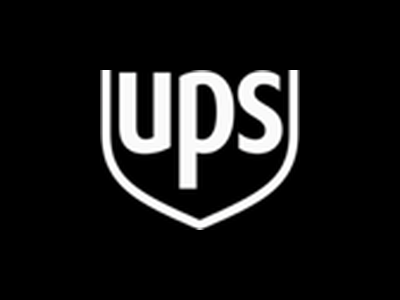
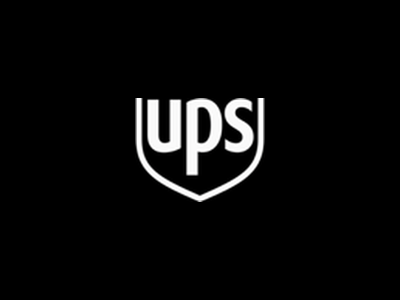
Mobile: fix centering, corners, SPECS scroll, all pending layout issues
- UPS logo: shrink to 130×104px (was 200×160, too large/cut off)
- Contents: remove "Adobe — Mobile Optimizations" row (now 3 projects)
- Comparison (slide 9): mobile now shows images stacked vertically instead of horizontal carousel
- Before slide (14): image bleeds edge-to-edge (negative margins, no horizontal padding)
- Key Findings (16): add 16px top space above KEY TAKEAWAYS on mobile
- Slides 17–20: reduce gap below headline from 20px → 8px; unify carousel to align-items:center
- SPECS slides (34/35): fix images cut off on mobile — keep inner grid scrollable (was incorrectly set to overflow:visible)
- Global mobile: remove border-radius from all slide images
- Global mobile: hide scrollbar on slides (fixes left/right centering asymmetry in DevTools)

Changed region(s): [[0.24, 0.21, 0.75, 0.78]]

diff --git a/index.html b/index.html
@@ -367,7 +367,7 @@
       .research-kt {
         position: static !important;
         width: auto !important;
-        padding: 0 !important;
+        padding: 16px 0 0 !important;
       }
       /* Checkout cover: 3D MacBook clips on portrait — hide it */
       .checkout-mac { display: none !important; }
@@ -434,8 +434,8 @@
       }
       /* Before checkout: more breathing room between step images */
       .img-grid-3 { gap: 32px !important; }
-      /* Specs: let outer slide scroll; remove inner scroll container */
-      .img-grid-2.scrollable { overflow: visible !important; flex: none !important; }
+      /* Specs: scrollable inner grid handles overflow */
+      .img-grid-2.scrollable { overflow-y: auto !important; flex: 1 !important; min-height: 0 !important; }
       /* Mobile designs: 2×2 grid */
       .mobile-2x2 { display: grid !important; grid-template-columns: 1fr 1fr !important; gap: 10px !important; }
       .mobile-2x2-desktop { display: none !important; }
@@ -445,10 +445,17 @@
       .brands-desktop { display: none !important; }
       .brands-mobile { display: grid !important; grid-template-columns: repeat(2, 1fr) !important; width: 100% !important; gap: 0 !important; }
       .brands-mobile img { width: 100% !important; height: auto !important; object-fit: contain !important; max-height: none !important; }
-      /* Comparison carousel: vertical centering, horizontal swipe, correct image sizing */
-      .comparison-mobile { touch-action: pan-x !important; flex: none !important; height: auto !important; margin-top: auto !important; margin-bottom: auto !important; align-items: flex-start !important; }
-      .comparison-mobile > div { max-width: 100% !important; }
+      /* Comparison: vertically stacked images */
+      .comparison-mobile { touch-action: pan-y !important; }
       .media-slide .comparison-mobile .contain-img { max-height: none !important; }
+      /* Remove rounded corners on mobile */
+      .slide img { border-radius: 0 !important; }
+      .img-grid-2 > div { border-radius: 0 !important; }
+      /* Bleed image for Before slide */
+      .before-img-container { margin: 0 -18px !important; }
+      /* Hide scrollbars on mobile slides (no layout shift) */
+      .slide::-webkit-scrollbar { display: none; }
+      .slide { scrollbar-width: none; }
 
     }
     @media (min-width: 601px) { .mobile-only-slide { display: none !important; } }
@@ -623,7 +630,6 @@
 
       <div style="padding:28px 0;border-bottom:1px solid var(--border);"><div class="h2">Apple — Apple Store App</div></div>
       <div style="padding:28px 0;border-bottom:1px solid var(--border);"><div class="h2">Adobe — Checkout Redesign</div></div>
-      <div style="padding:28px 0;border-bottom:1px solid var(--border);"><div class="h2">Adobe — Mobile Optimizations</div></div>
       <div style="padding:28px 0;"><div class="h2">Adobe — Internal Tool</div></div>
     </div>
   </div>
@@ -657,14 +663,10 @@
   <div class="comparison-desktop" style="flex:1; min-height:0; display:flex; align-items:center; justify-content:center; overflow-x:auto;">
     <img src="/portfolio/assets/images/apple-comparison.webp" alt="apple.com vs Apple Store app" class="contain-img" style="max-height:100%;width:auto;min-width:480px;display:block;border-radius:10px;box-shadow:0 8px 40px rgba(0,0,0,0.6);">
   </div>
-  <!-- Mobile: swipeable carousel — one side at a time -->
-  <div class="comparison-mobile" style="display:none; flex-direction:row; overflow-x:auto; overflow-y:hidden; -webkit-overflow-scrolling:touch; scroll-snap-type:x mandatory; flex:1; min-height:0; align-items:flex-start;">
-    <div style="min-width:100%; flex-shrink:0; scroll-snap-align:start;">
-      <img src="/portfolio/assets/images/apple-comparison-left.webp" alt="www.apple.com" class="contain-img" style="width:100%;height:auto;display:block;border-radius:10px;box-shadow:0 8px 40px rgba(0,0,0,0.6);">
-    </div>
-    <div style="min-width:100%; flex-shrink:0; scroll-snap-align:start;">
-      <img src="/portfolio/assets/images/apple-comparison-right.webp" alt="Apple Store app" class="contain-img" style="width:100%;height:auto;display:block;border-radius:10px;box-shadow:0 8px 40px rgba(0,0,0,0.6);">
-    </div>
+  <!-- Mobile: vertically stacked images -->
+  <div class="comparison-mobile" style="display:none; flex-direction:column; overflow-y:auto; overflow-x:hidden; flex:1; min-height:0; gap:16px;">
+    <img src="/portfolio/assets/images/apple-comparison-left.webp" alt="www.apple.com" class="contain-img" style="width:100%;height:auto;display:block;">
+    <img src="/portfolio/assets/images/apple-comparison-right.webp" alt="Apple Store app" class="contain-img" style="width:100%;height:auto;display:block;">
   </div>
 </div>
 
@@ -753,8 +755,8 @@
     <div class="label">Before</div>
     <div class="h2">The existing Shop tab — designed for fans, not first-time users.</div>
   </div>
-  <div style="flex:1; min-height:0; display:flex; align-items:center; justify-content:center;">
-    <img src="/portfolio/assets/images/apple-before.webp" alt="Before redesign" style="max-width:100%;max-height:100%;width:auto;height:auto;display:block;border-radius:10px;box-shadow:0 8px 40px rgba(0,0,0,0.6);">
+  <div class="before-img-container" style="flex:1; min-height:0; margin:0 -64px; overflow:hidden; display:flex; align-items:center;">
+    <img src="/portfolio/assets/images/apple-before.webp" alt="Before redesign" class="contain-img" style="width:100%;height:auto;display:block;box-shadow:0 8px 40px rgba(0,0,0,0.6);">
   </div>
 </div>
 
@@ -786,7 +788,7 @@
 </div>
 
 <!-- CS2 ACCESSORY MODULES ───────────────────── -->
-<div class="slide media-slide col" style="padding:48px 64px 56px; gap:20px;">
+<div class="slide media-slide col" style="padding:48px 64px 56px; gap:8px;">
   <div style="flex-shrink:0;">
     <div class="label">Design Exploration</div>
     <div class="h2">Accessory module explorations.</div>
@@ -800,35 +802,35 @@
 </div>
 
 <!-- CS2 UX ──────────────────────────────────── -->
-<div class="slide media-slide col" style="padding:48px 64px 56px; gap:20px;">
+<div class="slide media-slide col" style="padding:48px 64px 56px; gap:8px;">
   <div style="flex-shrink:0;">
     <div class="label">Final UX</div>
     <div class="h2">Wireframed the experience across all seven device types.</div>
   </div>
-  <div class="carousel-wrap" style="flex:1; min-height:0; display:flex; align-items:flex-start; justify-content:center; padding-top:16px;">
+  <div class="carousel-wrap" style="flex:1; min-height:0; display:flex; align-items:center; justify-content:center;">
     <img src="/portfolio/assets/images/apple-ux.webp?v=3" alt="Final UX wireframes" style="max-width:100%;max-height:100%;width:auto;height:auto;display:block;border-radius:10px;box-shadow:0 8px 40px rgba(0,0,0,0.6);">
   </div>
 </div>
 
 <!-- CS2 DESIGNS ─────────────────────────────── -->
-<div class="slide media-slide col" style="padding:48px 64px 56px; gap:20px;">
+<div class="slide media-slide col" style="padding:48px 64px 56px; gap:8px;">
   <div style="flex-shrink:0;">
     <div class="label">Final Design</div>
     <div class="h2">Final Mocks — iPhone</div>
   </div>
-  <div class="carousel-wrap" style="flex:1; min-height:0; display:flex; align-items:flex-start; justify-content:center; padding-top:16px;">
+  <div class="carousel-wrap" style="flex:1; min-height:0; display:flex; align-items:center; justify-content:center;">
     <img src="/portfolio/assets/images/apple-designs-all.webp?v=2" alt="Final designs — all 7 devices" style="max-width:100%;max-height:100%;width:auto;height:auto;display:block;border-radius:10px;box-shadow:0 8px 40px rgba(0,0,0,0.6);">
   </div>
   <div style="flex-shrink:0;opacity:0.4;font-size:13px;">Visual design by Apple's visual designer. My role: UX design</div>
 </div>
 
 <!-- CS2 DESIGN CLOSEUP ──────────────────────── -->
-<div class="slide media-slide col" style="padding:48px 64px 56px; gap:20px;">
+<div class="slide media-slide col" style="padding:48px 64px 56px; gap:8px;">
   <div style="flex-shrink:0;">
     <div class="label">Final Design — My Device</div>
     <div class="h2">Final Mocks — iPad</div>
   </div>
-  <div class="carousel-wrap" style="flex:1; min-height:0; display:flex; align-items:flex-start; justify-content:center; padding-top:16px;">
+  <div class="carousel-wrap" style="flex:1; min-height:0; display:flex; align-items:center; justify-content:center;">
     <img src="/portfolio/assets/images/apple-design-closeup.jpg" alt="Final design close-up — iPhone, Apple Watch, iPad, HomePod" style="max-width:100%;max-height:100%;width:auto;height:auto;display:block;">
   </div>
   <div style="flex-shrink:0;opacity:0.4;font-size:13px;">Visual design by Apple's visual designer. My role: UX design</div>
